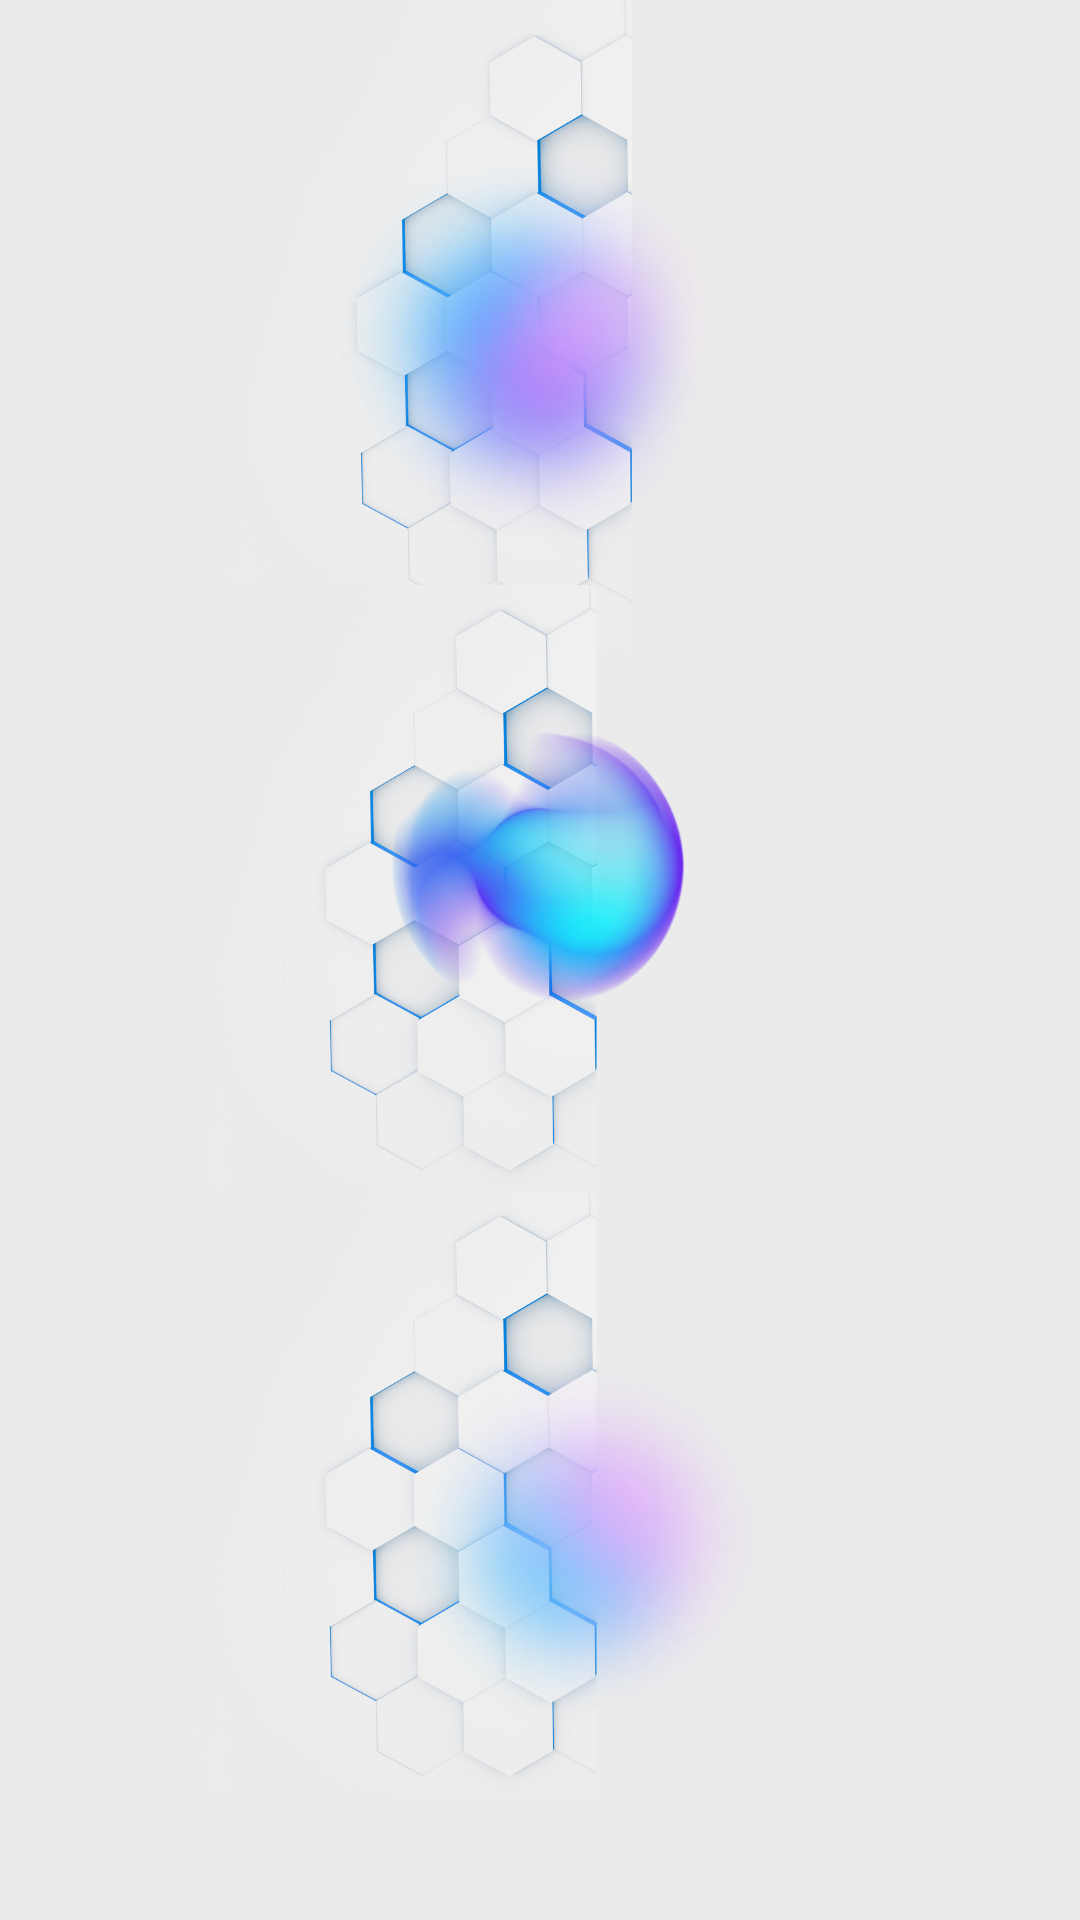
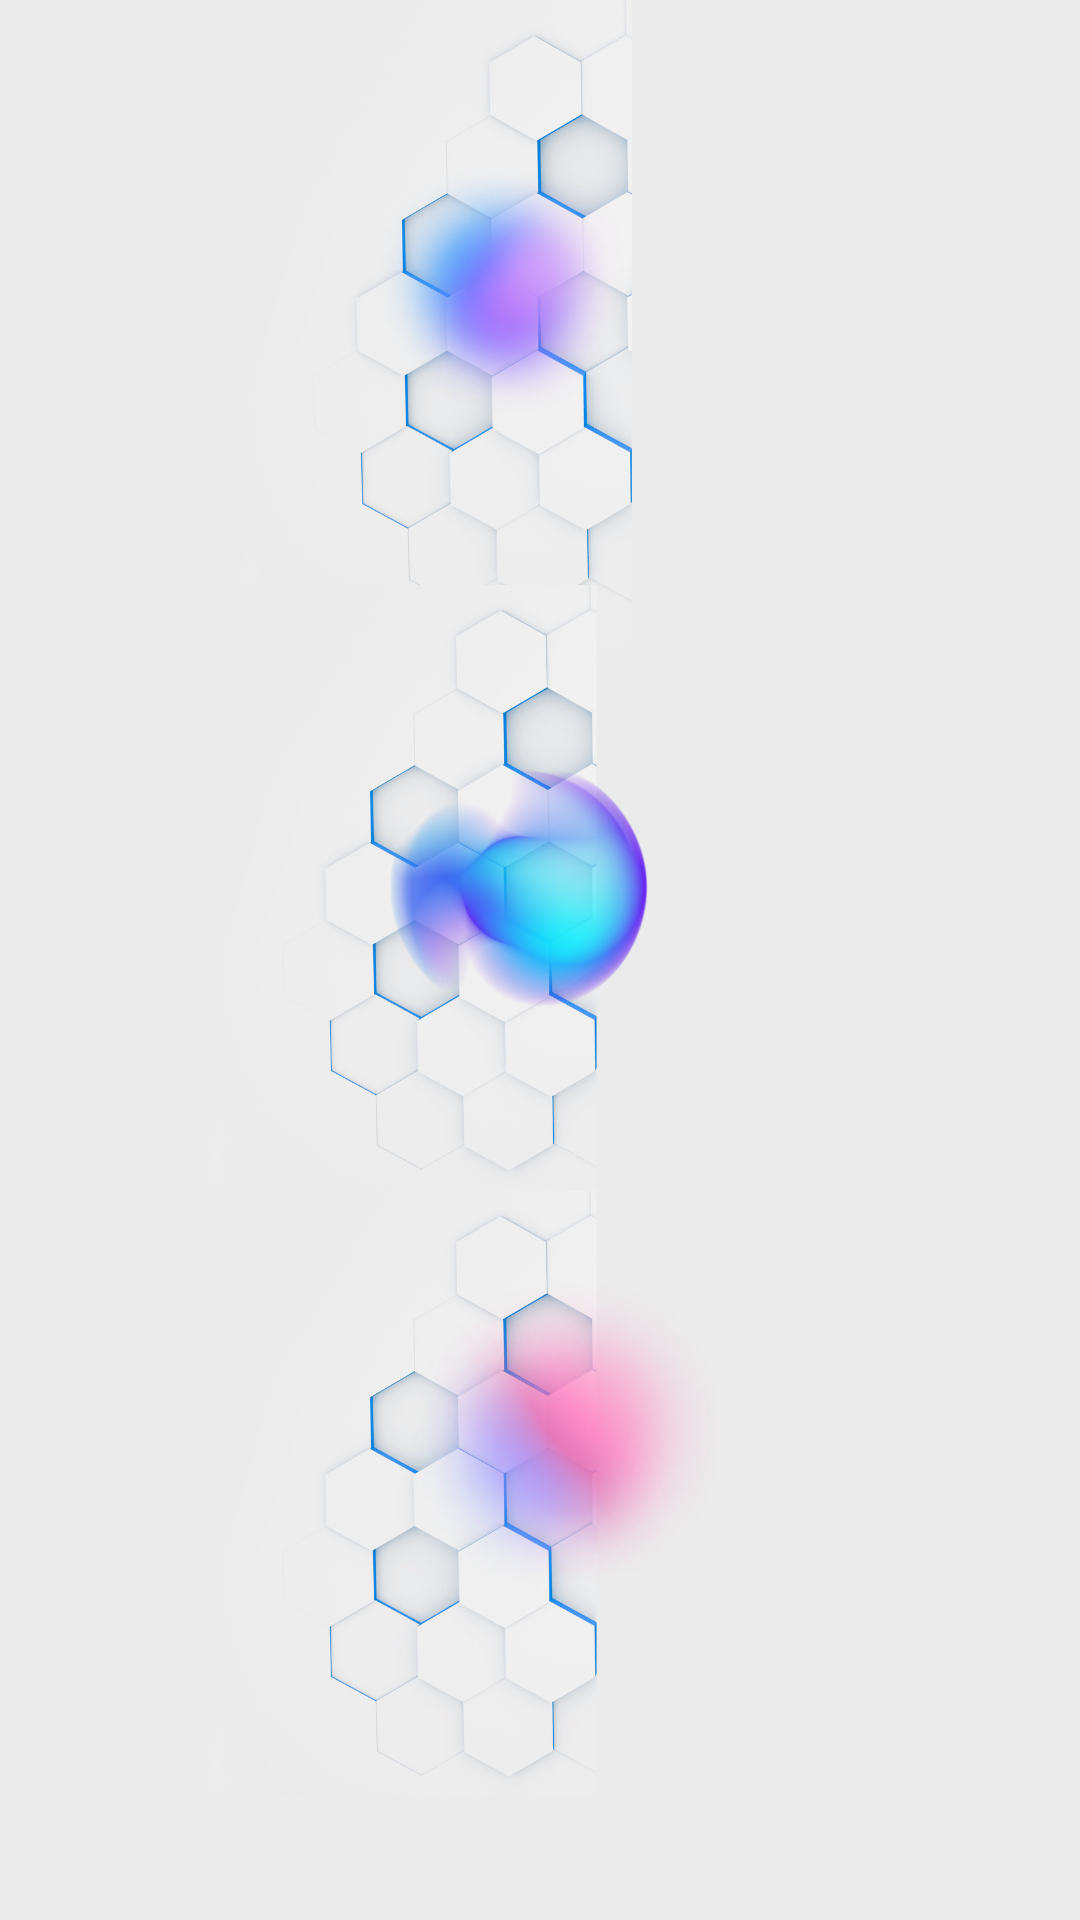
Fixed Service for small screen and adjusted mesh

Changed region(s): [[0.4278, 0.6875, 0.6417, 0.875], [0.3667, 0.375, 0.6417, 0.5312], [0.3361, 0.0938, 0.6111, 0.25]]

diff --git a/services.html b/services.html
@@ -61,15 +61,7 @@
         }
 
 
-        .split-side {
-            position: absolute;
-            width: 50%;
-            height: 100%;
-            display: flex;
-            align-items: center;
-            justify-content: center;
-            transition: transform 0.5s ease;
-        }
+
 
         .split-left {
             left: 0;
@@ -632,13 +624,12 @@
 
         @media (max-width: 480px) {
 
-
+            
             .split-services-section,
             .split-left,
-            .split-right,
-            .B2C-section {
+            .split-right {
                 margin: 0;
-                border-radius: 0;
+                border-radius: 0 0 4rem 0;
             }
 
 
@@ -649,10 +640,9 @@
 
             .split-services-section::before,
             .split-left::before,
-            .split-right::before,
-            .B2C-section::before {
+            .split-right::before {
                 margin: 0;
-                border-radius: 0;
+                border-radius: 0 0 4rem 0;
             }
 
             .B2C-section::before {
@@ -661,10 +651,9 @@
 
             .split-services-section::after,
             .split-left::after,
-            .split-right::after,
-            .B2C-section::after {
+            .split-right::after {
                 margin: 0;
-                border-radius: 0;
+                border-radius: 0 0 4rem 0;
             }
 
             .B2C-section::after {

diff --git a/about.html b/about.html
@@ -447,20 +447,20 @@
             .about-section,
             .join-contact-section {
                 margin: 0 0 4rem 0;
-                border-radius: 0 120px 80 px 30px;
+                border-radius: 0 120px 80px 30px;
             }
 
 
             .about-section::before,
             .join-contact-section::before {
                 margin: 0;
-                border-radius: 0 120px 80 px 30px;
+                border-radius: 0 120px 80px 30px;
             }
 
             .about-section::after ,
             .join-contact-section::after {
                 margin: 0;
-                border-radius: 0 120px 80 px 30px;
+                border-radius: 0 120px 80px 30px;
 
             }
         }

diff --git a/css/theme.css b/css/theme.css
@@ -136,6 +136,7 @@ body {
 [data-theme="light"] .why-us-description,
 [data-theme="light"] .services-subtitle,
 [data-theme="light"] .B2C-subtitle,
+[data-theme="light"] .about-subtitle,
 [data-theme="light"] .price-features li,
 [data-theme="light"] .plan-features,
 [data-theme="light"] .feature-description,
